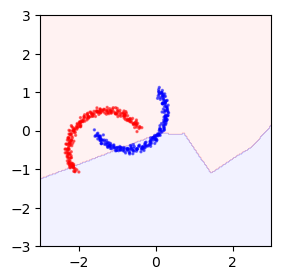
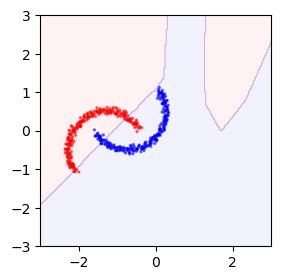
'with_ssh_not_frozen'

diff --git a/synthetic/main.py b/synthetic/main.py
@@ -15,7 +15,7 @@ def parse_arguments():
     parser.add_argument('--rot', default=50, type=float)
     parser.add_argument('--tran', default=1.0, type=float)
     parser.add_argument('--sep', default=-0.5, type=float)
-    parser.add_argument('--figdir', default=None, type=str)
+    parser.add_argument('--figdir', default='docs', type=str)
     parser.add_argument('--compare_tent_shot', default=True, type=str)
     args = parser.parse_args()
     return args
@@ -125,7 +125,7 @@ def run_experiment(rot, tran, sep, figdir=None, seed=2021):
         result[5] = acc
 
         if figdir:
-            # net.load_state_dict(net_state, strict=True)
+            net.load_state_dict(net_state, strict=True)
             visualize.plot_prediction(input_t, label_t, net, 3, os.path.join(figdir, 'target_tent.png'))
 
         # Shot
@@ -136,7 +136,7 @@ def run_experiment(rot, tran, sep, figdir=None, seed=2021):
         result[6] = acc
 
         if figdir:
-            # net.load_state_dict(net_state, strict=True)
+            net.load_state_dict(net_state, strict=True)
             visualize.plot_prediction(input_t, label_t, net, 3, os.path.join(figdir, 'target_shot.png'))
     print("Elapsed: {:.2f}s".format(time.time() - start))
     return result

diff --git a/synthetic/shot_utils.py b/synthetic/shot_utils.py
@@ -40,8 +40,8 @@ def Entropy(input_):
 
 def configure_model(net):
     classifier = net.cls
-    ssh = net.ssh
+    # ssh = net.ssh
     for name, param in classifier.named_parameters():
         param.requires_grad = False
-    for name, param in ssh.named_parameters():
-        param.requires_grad = False
+    # for name, param in ssh.named_parameters():
+        # param.requires_grad = False
